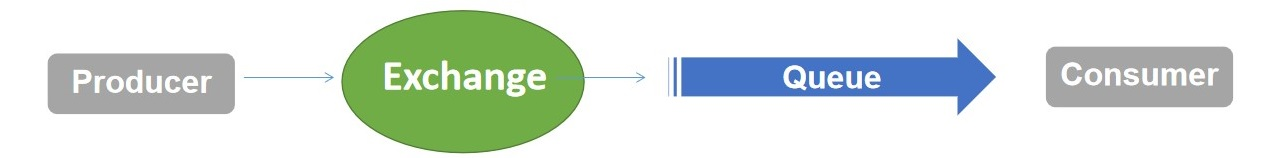
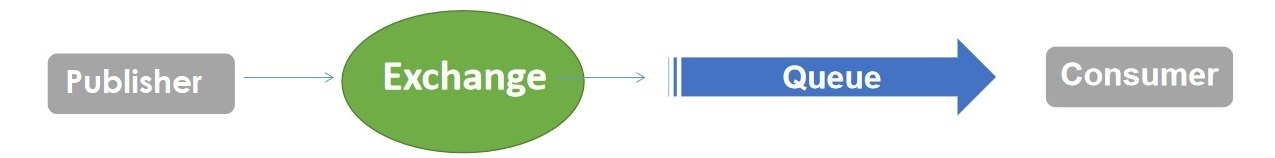
Iniciando Comunicação de Microservicos com RabbitMQ

Changed region(s): [[0.0306, 0.4304, 0.1835, 0.6076]]

diff --git a/README.md b/README.md
@@ -41,3 +41,13 @@ O Service Broker usa TCP/IP para trocar mensagens entre instâncias. O Service B
 O RabbitMQ é um software de enfileiramento de mensagens também conhecido como intermediário de mensagens ou gerenciador de filas.
 
 Quando o usuário inserir informações do usuário na interface da web, o aplicativo da web criará uma mensagem que inclui todas as informações importantes que o usuário precisa em uma mensagem e a colocará em uma fila definida no RabbitMQ.
+
+![exemplo](https://github.com/TalissonMelo/ms-rabbitmq-keyclock/blob/main/ms-imagem/exemplo.jpg)
+
+<b>Publisher</b> -> Publica a mensagem.
+
+<b>Exchange</b> -> Pega a mensagem, processa e encaminha para fila.
+
+<b>Queue</b> -> Fila 
+
+<b>Consumer</b> ->  Receptor da mensagem.
